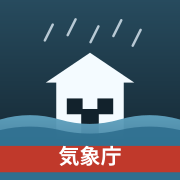
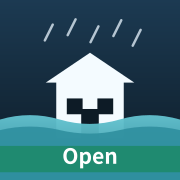
Add files via upload

diff --git a/open-meteo-version/styles 2.css b/open-meteo-version/styles 2.css
@@ -1,0 +1,39 @@
+@import url('https://fonts.googleapis.com/css2?family=Noto+Sans+JP:wght@400;500;600;700;800&family=Roboto+Mono:wght@500;700&display=swap');
+
+:root { color-scheme: light; --ink:#18231e; --muted:#63716a; --green:#217354; --green-dark:#164f3c; --paper:#f5f8f5; --line:#dce5df; --orange:#e8901d; --red:#c94b3f; }
+* { box-sizing:border-box; }
+body { margin:0; background:var(--paper); color:var(--ink); font-family:"Noto Sans JP",sans-serif; }
+.site-header { height:88px; padding:0 max(28px,calc((100% - 1120px)/2)); display:flex; justify-content:space-between; align-items:center; border-bottom:1px solid var(--line); background:rgba(255,255,255,.82); }
+.brand { display:flex; align-items:center; gap:12px; color:inherit; text-decoration:none; font-size:11px; line-height:1.35; letter-spacing:.08em; }
+.brand strong { font-size:17px; letter-spacing:.12em; }
+.brand-mark { display:grid; place-items:center; width:42px; height:42px; border-radius:50% 50% 48% 52%; background:var(--green); color:white; font-weight:700; }
+.site-header>p { color:var(--green); font-size:12px; font-weight:700; letter-spacing:.08em; }
+.live-dot { display:inline-block; width:7px; height:7px; margin-right:5px; border-radius:50%; background:#48a67d; box-shadow:0 0 0 4px #dceee5; }
+main { max-width:1120px; margin:auto; padding:72px 28px 84px; }
+.intro { margin-bottom:44px; }
+.eyebrow { margin:0 0 13px; color:var(--green); font:700 11px/1 "Roboto Mono",monospace; letter-spacing:.2em; }
+h1 { margin:0 0 22px; font-size:clamp(42px,6vw,70px); line-height:1.16; letter-spacing:.02em; }
+h1 em { color:var(--green); font-style:normal; }
+.lead { color:var(--muted); line-height:2; font-size:14px; }
+.status-card { border-radius:20px; padding:30px 36px 25px; color:white; background:var(--green); box-shadow:0 18px 45px rgba(31,77,59,.16); transition:background .3s; }
+.status-card.caution { background:var(--orange); }.status-card.warning,.status-card.error { background:var(--red); }
+.status-topline { display:flex; justify-content:space-between; padding-bottom:20px; border-bottom:1px solid rgba(255,255,255,.25); font-size:11px; font-weight:600; letter-spacing:.08em; }
+.status-content { min-height:160px; display:flex; align-items:center; justify-content:space-between; }
+.status-label { display:flex; align-items:center; gap:18px; font-size:38px; font-weight:800; }
+.status-icon { display:grid; place-items:center; width:50px; height:50px; border:2px solid rgba(255,255,255,.7); border-radius:50%; font-size:22px; }
+.status-content p { margin:9px 0 0; opacity:.86; font-size:13px; }
+.rainfall-value { text-align:right; line-height:1; }.rainfall-value>span { font:700 clamp(54px,8vw,84px)/1 "Roboto Mono",monospace; }.rainfall-value small { margin-left:10px; font-size:15px; }.rainfall-value p { font-size:11px; }
+.meter { position:relative; height:5px; border-radius:5px; background:rgba(255,255,255,.25); overflow:visible; }.meter>span { display:block; height:100%; border-radius:5px; background:white; transition:width .5s; }
+.threshold { position:absolute; top:-3px; width:1px; height:11px; background:rgba(255,255,255,.65); }.threshold-20{left:50%}.threshold-30{left:75%}
+.meter-labels { display:grid; grid-template-columns:1fr 1fr 1fr auto; margin-top:8px; font:500 9px "Roboto Mono"; opacity:.75; }.meter-labels span:nth-child(2),.meter-labels span:nth-child(3){text-align:center}
+.section-heading { display:flex; justify-content:space-between; align-items:end; margin:70px 0 25px; }.section-heading h2,.guide h2 { margin:0; font-size:25px; }.section-heading button { padding:10px 18px; border:1px solid var(--line); border-radius:99px; background:white; color:var(--green-dark); font-weight:700; cursor:pointer; }.section-heading button:hover { border-color:var(--green); }.loading span { display:inline-block; animation:spin 1s linear infinite; } @keyframes spin{to{transform:rotate(360deg)}}
+.stations { display:grid; grid-template-columns:repeat(3,1fr); gap:14px; }.station { min-height:205px; padding:24px; border:1px solid var(--line); border-radius:14px; background:white; }.station-title { display:flex; align-items:start; gap:10px; }.pin { color:var(--green); font-size:20px; }.station h3 { margin:0 0 4px; font-size:15px; }.station-title p,.station-note { margin:0; color:var(--muted); font-size:10px; }.badge { margin-left:auto; padding:4px 9px; border-radius:99px; background:#e5f2eb; color:var(--green); font-size:10px; font-weight:700; }.badge.caution { background:#fff0d7;color:#a6640e}.badge.warning { background:#fbe1de;color:var(--red)}.badge.missing{background:#eee;color:#777}
+.station-value { margin-top:31px; }.station-value strong { font:700 37px "Roboto Mono"; }.station-value span { margin-left:7px; color:var(--muted); font-size:11px; }.station-note { margin-top:5px; letter-spacing:.08em; }
+.skeleton { background:linear-gradient(100deg,#fff 20%,#edf2ef 50%,#fff 80%); background-size:200% 100%; animation:shimmer 1.5s infinite; } @keyframes shimmer{to{background-position:-200% 0}}
+.station-error { grid-column:1/-1; margin:0; padding:28px; border:1px solid #ebc6c2; border-radius:14px; background:#fff4f2; color:#8c342d; font-size:13px; text-align:center; }
+.guide { margin-top:80px; }.guide-grid { display:grid; grid-template-columns:repeat(3,1fr); gap:14px; margin-top:25px; }.guide article { display:flex; gap:15px; min-height:137px; padding:22px; border-top:3px solid var(--green); background:white; }.guide article:nth-child(2){border-color:var(--orange)}.guide article:nth-child(3){border-color:var(--red)}
+.guide-icon { flex:0 0 auto; display:grid; place-items:center; width:30px; height:30px; border-radius:50%; color:white; background:var(--green); font-size:12px;font-weight:800}.caution-icon{background:var(--orange)}.warning-icon{background:var(--red)}
+.guide strong { display:block;font-size:14px}.guide b { display:block;margin:8px 0 7px;font:700 18px "Roboto Mono"}.guide small{font-size:9px}.guide article p{margin:0;color:var(--muted);font-size:10px;line-height:1.6}
+.notice { display:flex; gap:17px; margin-top:28px; padding:20px 24px; border:1px solid #d5e4db; background:#edf5f0; color:#506159; }.notice>span { display:grid;place-items:center;flex:0 0 auto;width:24px;height:24px;border:1px solid var(--green);border-radius:50%;color:var(--green);font:700 12px serif}.notice p { margin:0;font-size:11px;line-height:1.8}.notice strong{display:block;color:var(--ink);font-size:12px}
+footer { display:flex;justify-content:space-between;padding:28px max(28px,calc((100% - 1120px)/2));border-top:1px solid var(--line);color:var(--muted);font-size:10px;letter-spacing:.07em}footer a{color:var(--green);text-decoration:none}
+@media(max-width:700px){.site-header{height:72px}.site-header>p{font-size:9px}main{padding:48px 18px 60px}.desktop{display:none}.status-card{padding:22px}.status-content{align-items:start;flex-direction:column;padding:28px 0;gap:28px}.rainfall-value{text-align:left}.stations,.guide-grid{grid-template-columns:1fr}.section-heading{margin-top:52px}.guide{margin-top:60px}footer{gap:15px;flex-direction:column}.status-label{font-size:30px}}

diff --git a/open-meteo-version/app 2.js b/open-meteo-version/app 2.js
@@ -1,0 +1,102 @@
+export const STATIONS = [
+  { id: "hakone", name: "箱根", area: "芦ノ湖南東・箱根町", lat: 35.2333, lon: 139.0167 },
+  { id: "gotemba", name: "御殿場", area: "芦ノ湖西・裾野市北部", lat: 35.3086, lon: 138.935 },
+  { id: "mishima", name: "三島", area: "三島市・函南町西部", lat: 35.1167, lon: 138.9167 },
+];
+
+export const OPEN_METEO_BASE_URL = "https://api.open-meteo.com/v1/forecast";
+export const REFRESH_INTERVAL_MS = 10 * 60 * 1000;
+
+function buildOpenMeteoUrl() {
+  const latitude = STATIONS.map((station) => station.lat).join(",");
+  const longitude = STATIONS.map((station) => station.lon).join(",");
+  const params = new URLSearchParams({
+    latitude,
+    longitude,
+    current: "precipitation",
+    timezone: "Asia/Tokyo",
+  });
+  return `${OPEN_METEO_BASE_URL}?${params.toString()}`;
+}
+
+export function classify(rainfall) {
+  if (rainfall >= 30) return { key: "warning", label: "警戒", description: "道路冠水や小河川の増水が始まる段階", icon: "!!" };
+  if (rainfall >= 20) return { key: "caution", label: "注意", description: "側溝や小規模な水路があふれ始める段階", icon: "!" };
+  return { key: "normal", label: "平常", description: "現時点で基準値未満です", icon: "✓" };
+}
+
+export async function fetchLatest(fetcher = fetch, now = new Date()) {
+  const url = buildOpenMeteoUrl();
+  let response;
+  try {
+    response = await fetcher(url, { cache: "no-store" });
+  } catch (error) {
+    throw new Error("最新の観測データを取得できませんでした", { cause: error });
+  }
+  if (!response.ok) {
+    throw new Error(`気象データの取得元から応答がありません（HTTP ${response.status}）`, { cause: new Error(String(response.status)) });
+  }
+  const data = await response.json();
+  const results = Array.isArray(data) ? data : [data];
+  if (results.some((item) => item?.error)) {
+    throw new Error(`気象データの取得元がエラーを返しました（${results.find((item) => item?.error)?.reason ?? "不明なエラー"}）`);
+  }
+
+  const observations = STATIONS.map((station, index) => {
+    const value = results[index]?.current?.precipitation;
+    return { ...station, rainfall: Number.isFinite(value) ? value : null };
+  });
+  if (observations.every((item) => item.rainfall === null)) {
+    throw new Error("対象地点の観測値がすべて欠測です");
+  }
+  const timestamp = results.find((item) => item?.current?.time)?.current.time ?? now.toISOString();
+  return { timestamp, observations };
+}
+
+function formatTime(timestamp) {
+  const match = /^(\d{4})-(\d{2})-(\d{2})T(\d{2}):(\d{2})/.exec(timestamp);
+  if (!match) return timestamp;
+  const [, , month, day, hour, minute] = match;
+  return `${Number(month)}月${Number(day)}日 ${hour}:${minute} 現在`;
+}
+
+function render({ timestamp, observations }) {
+  const valid = observations.filter(({ rainfall }) => rainfall !== null);
+  const max = valid.length ? Math.max(...valid.map(({ rainfall }) => rainfall)) : 0;
+  const level = classify(max);
+  const card = document.querySelector("#status-card");
+  card.className = `status-card ${level.key}`;
+  document.querySelector("#status-text").textContent = level.label;
+  document.querySelector(".status-icon").textContent = level.icon;
+  document.querySelector("#status-description").textContent = level.description;
+  document.querySelector("#rainfall").textContent = max.toFixed(1);
+  document.querySelector("#observation-time").textContent = formatTime(timestamp);
+  document.querySelector("#meter-fill").style.width = `${Math.min(100, max / 40 * 100)}%`;
+  document.querySelector("#stations").innerHTML = observations.map((station) => {
+    const stationLevel = station.rainfall === null ? { key: "missing", label: "欠測" } : classify(station.rainfall);
+    const value = station.rainfall === null ? "--" : station.rainfall.toFixed(1);
+    return `<article class="station"><div class="station-title"><span class="pin" aria-hidden="true">⌖</span><div><h3>${station.name}</h3><p>${station.area}</p></div><span class="badge ${stationLevel.key}">${stationLevel.label}</span></div><div class="station-value"><strong>${value}</strong><span>mm/h</span></div><p class="station-note">直近1時間降水量</p></article>`;
+  }).join("");
+}
+
+function showError(error) {
+  document.querySelector("#status-text").textContent = "取得エラー";
+  document.querySelector("#status-description").textContent = error.message;
+  document.querySelector("#observation-time").textContent = "更新ボタンで再試行できます";
+  document.querySelector("#status-card").className = "status-card error";
+  document.querySelector("#stations").innerHTML = `<p class="station-error">通信状況を確認して、更新ボタンを押してください。</p>`;
+}
+
+async function update() {
+  const button = document.querySelector("#refresh");
+  button.disabled = true;
+  button.classList.add("loading");
+  try { render(await fetchLatest()); } catch (error) { showError(error); }
+  finally { button.disabled = false; button.classList.remove("loading"); }
+}
+
+if (typeof document !== "undefined") {
+  document.querySelector("#refresh").addEventListener("click", update);
+  update();
+  setInterval(update, REFRESH_INTERVAL_MS);
+}

diff --git a/open-meteo-version/app.test 2.js b/open-meteo-version/app.test 2.js
@@ -1,0 +1,57 @@
+import test from "node:test";
+import assert from "node:assert/strict";
+import { classify, fetchLatest, OPEN_METEO_BASE_URL, STATIONS } from "./app.js";
+
+test("classify applies exact rainfall thresholds", () => {
+  assert.equal(classify(19.9).label, "平常");
+  assert.equal(classify(20).label, "注意");
+  assert.equal(classify(29.9).label, "注意");
+  assert.equal(classify(30).label, "警戒");
+});
+
+test("fetchLatest returns station rainfall from Open-Meteo response", async () => {
+  const fakeFetch = async (url, options) => {
+    assert.ok(url.startsWith(OPEN_METEO_BASE_URL));
+    const params = new URL(url).searchParams;
+    assert.equal(params.get("latitude"), STATIONS.map((s) => s.lat).join(","));
+    assert.equal(params.get("longitude"), STATIONS.map((s) => s.lon).join(","));
+    assert.equal(params.get("current"), "precipitation");
+    assert.deepEqual(options, { cache: "no-store" });
+    return {
+      ok: true,
+      json: async () => [
+        { current: { time: "2026-09-26T13:45", precipitation: 12.5 } },
+        { current: { time: "2026-09-26T13:45", precipitation: 20 } },
+        { current: { time: "2026-09-26T13:45", precipitation: null } },
+      ],
+    };
+  };
+  const result = await fetchLatest(fakeFetch);
+  assert.equal(result.timestamp, "2026-09-26T13:45");
+  assert.deepEqual(result.observations.map(({ rainfall }) => rainfall), [12.5, 20, null]);
+});
+
+test("fetchLatest throws when the HTTP response is not ok", async () => {
+  const fakeFetch = async () => ({ ok: false, status: 503 });
+  await assert.rejects(() => fetchLatest(fakeFetch), /応答がありません/);
+});
+
+test("fetchLatest throws when Open-Meteo reports an error", async () => {
+  const fakeFetch = async () => ({
+    ok: true,
+    json: async () => ({ error: true, reason: "Invalid latitude" }),
+  });
+  await assert.rejects(() => fetchLatest(fakeFetch), /Invalid latitude/);
+});
+
+test("fetchLatest throws when every station is missing a value", async () => {
+  const fakeFetch = async () => ({
+    ok: true,
+    json: async () => [
+      { current: { time: "2026-09-26T13:45", precipitation: null } },
+      { current: { time: "2026-09-26T13:45", precipitation: null } },
+      { current: { time: "2026-09-26T13:45", precipitation: null } },
+    ],
+  });
+  await assert.rejects(() => fetchLatest(fakeFetch), /欠測/);
+});

diff --git a/open-meteo-version/index 2.html b/open-meteo-version/index 2.html
@@ -4,8 +4,8 @@
     <meta charset="UTF-8" />
     <meta name="viewport" content="width=device-width, initial-scale=1.0" />
     <meta name="theme-color" content="#eef5f0" />
-    <title>気象庁版 雨量モニター</title>
-    <meta name="apple-mobile-web-app-title" content="気象庁版 雨量" />
+    <title>Open-Meteo版 雨量モニター</title>
+    <meta name="apple-mobile-web-app-title" content="OpenMeteo版 雨量" />
     <meta name="apple-mobile-web-app-capable" content="yes" />
     <link rel="apple-touch-icon" href="apple-touch-icon.png" />
     <link rel="icon" href="apple-touch-icon.png" />
@@ -17,7 +17,7 @@
         <span class="brand-mark" aria-hidden="true">雨</span>
         <span>箱根西麓<br /><strong>雨量モニター</strong></span>
       </a>
-      <p><span class="live-dot"></span> 気象庁アメダス</p>
+      <p><span class="live-dot"></span> Open-Meteo</p>
     </header>
 
     <main>
@@ -64,10 +64,10 @@
         </div>
       </section>
 
-      <aside class="notice"><span aria-hidden="true">i</span><p><strong>安全のために</strong>この表示は周辺3観測点の最大値をもとにした目安です。局地的な強雨を捉えられない場合があります。避難の判断には、自治体の避難情報や気象庁の防災情報もあわせて確認してください。</p></aside>
+      <aside class="notice"><span aria-hidden="true">i</span><p><strong>安全のために</strong>この表示は周辺3観測点相当の最大値をもとにした目安です。局地的な強雨を捉えられない場合があります。避難の判断には、自治体の避難情報や気象庁の防災情報もあわせて確認してください。</p></aside>
     </main>
 
-    <footer><span>箱根西麓 雨量モニター</span><a href="https://www.jma.go.jp/bosai/map.html#contents=amedas" target="_blank" rel="noreferrer">データ提供：気象庁 ↗</a></footer>
+    <footer><span>箱根西麓 雨量モニター（Open-Meteo版）</span><a href="https://open-meteo.com/" target="_blank" rel="noreferrer">データ提供：Open-Meteo ↗</a></footer>
     <script type="module" src="app.js"></script>
   </body>
 </html>

diff --git a/open-meteo-version/README 2.md b/open-meteo-version/README 2.md
@@ -1,0 +1,39 @@
+# 箱根西麓 雨量モニター（Open-Meteo版）
+
+芦ノ湖南側〜西側の山間部に近い3地点（箱根・御殿場・三島）の直近1時間降水量をオープンな気象データAPI「[Open-Meteo](https://open-meteo.com/)」から取得して表示し、最大値をもとに内水氾濫への注意度を判定する静的Webアプリです。
+
+このフォルダは、気象庁アメダスを使う元のアプリ（リポジトリのルート）とは別に、データ取得元だけをOpen-Meteoに差し替えた**もう一つの独立したアプリ**です。判定基準や画面はルートのアプリと同じです。
+
+## 判定基準
+
+| 直近1時間降水量 | 表示 | 目安 |
+| --- | --- | --- |
+| 30 mm/h 以上 | 警戒 | 道路冠水や小河川の増水が始まる段階 |
+| 20 mm/h 以上 | 注意 | 側溝や小規模な水路があふれ始める段階 |
+| 20 mm/h 未満 | 平常 | 現時点で基準値未満 |
+
+## 起動
+
+ビルドは不要です。このフォルダを任意の静的HTTPサーバーで配信してください。
+
+```bash
+cd open-meteo-version
+python3 -m http.server 4174
+```
+
+ブラウザで `http://localhost:4174` を開きます。観測値は Open-Meteo の Forecast API から直接取得し、10分ごとに自動更新します。
+
+データ取得先は `https://api.open-meteo.com/v1/forecast` です。3地点（箱根・御殿場・三島）の緯度経度を指定し、現在時刻の降水量(mm/h相当)をまとめて取得しています。ブラウザまたは配信環境で外部ドメインを制限している場合は、`api.open-meteo.com` へのHTTPS通信を許可してください。
+
+## 注意事項
+
+- 表示は3地点の最大値であり、対象地域全域の雨量を保証するものではありません。
+- Open-Meteo の値は気象予測モデルの格子点データであり、実測観測（アメダス）と差が生じることがあります。局地的な強雨を捉えられない場合があります。
+- 避難判断には、自治体の避難情報や気象庁の防災情報も確認してください。
+
+## テスト
+
+```bash
+cd open-meteo-version
+node --test
+```
